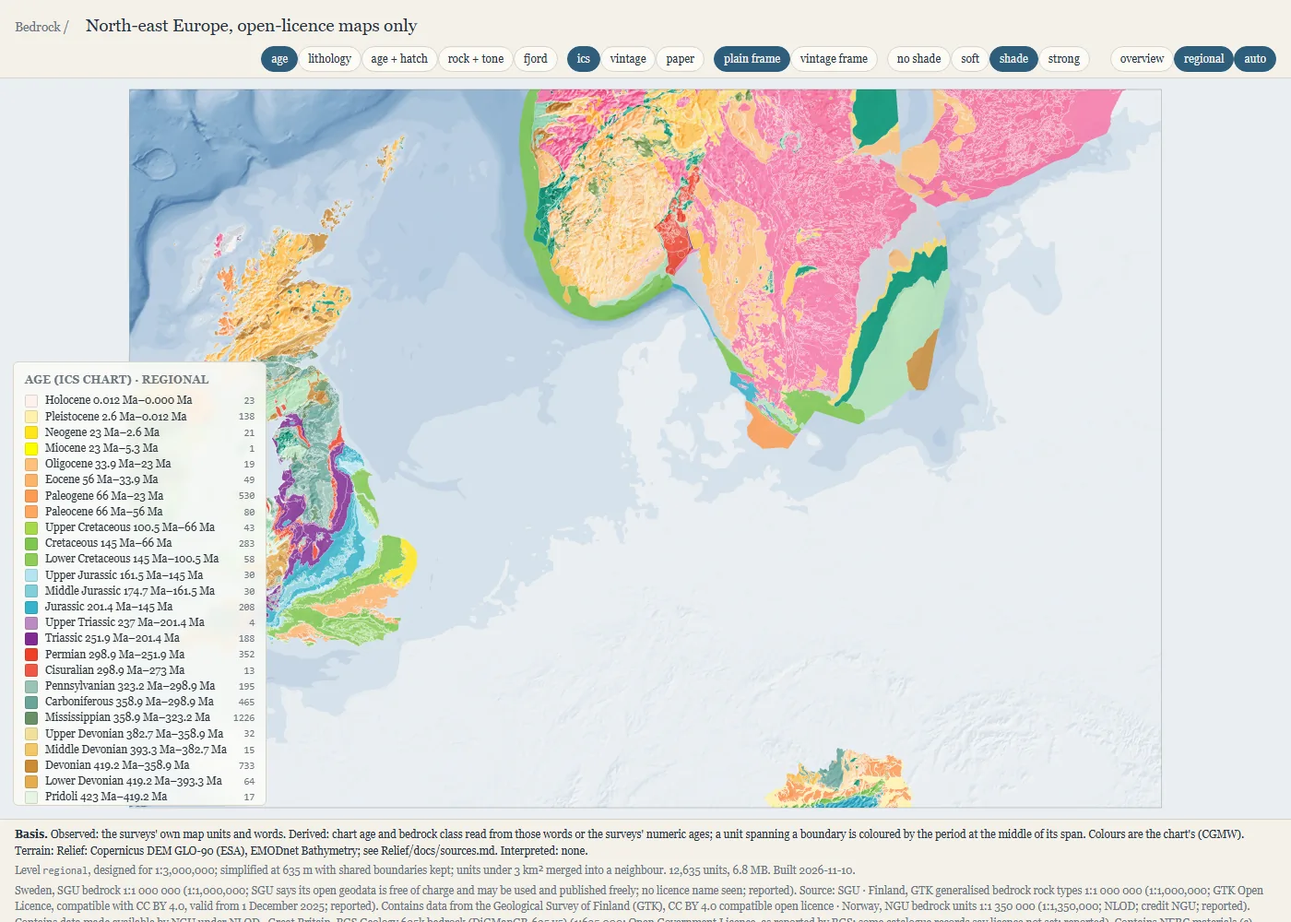
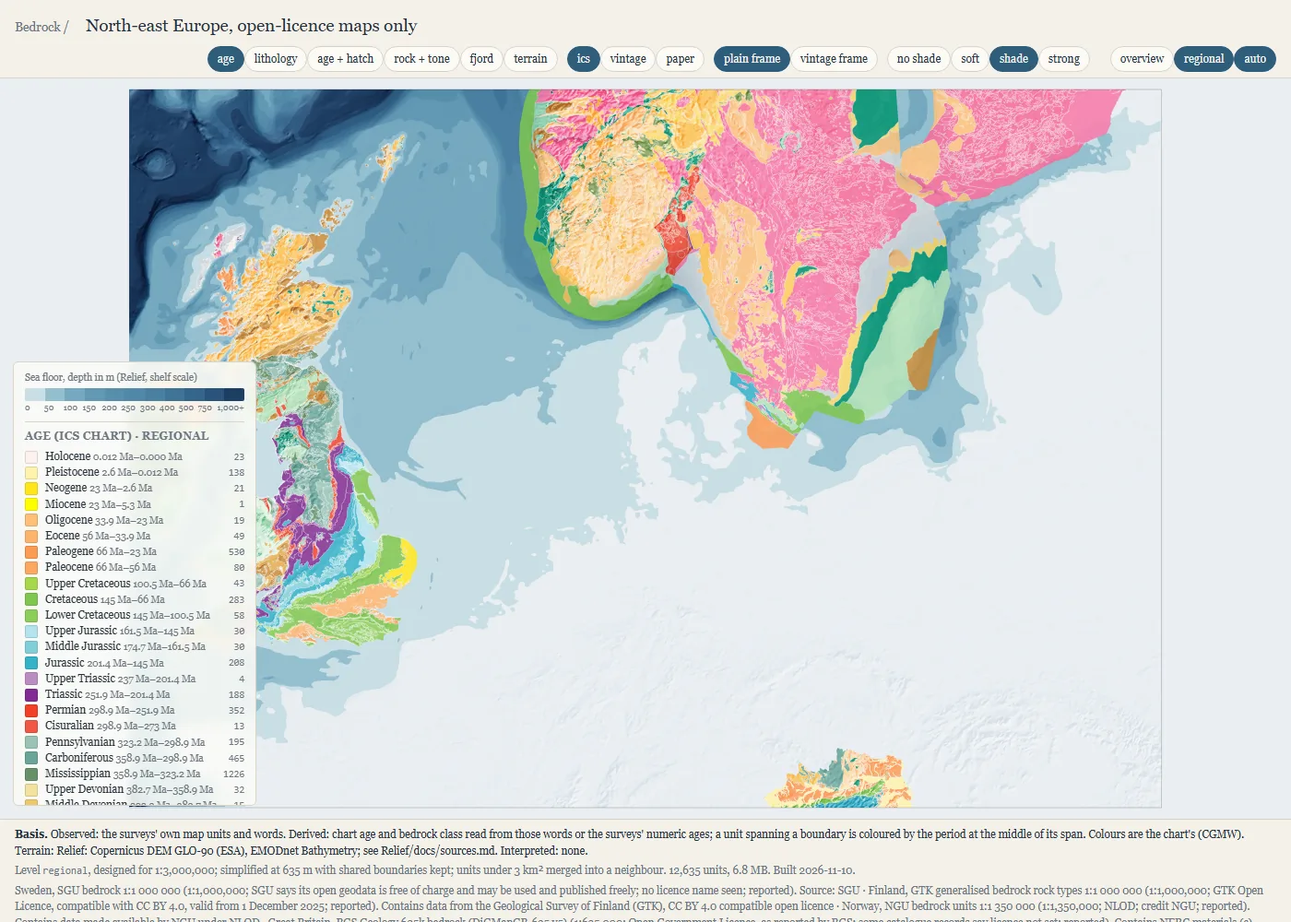
Viewers republished: Relief depth and height scales, terrain view, catchment shapes, ticked legends
The sea floor is on Relief's shelf depth ramp in both viewers; the geology viewer gains a terrain view on Relief frames
(height classes, bedrock hidden); the source-to-sink viewer opens on the catchment-shape view (fall lines under river
ribbons); every legend bar has ticks and a depth key. Screenshots add the terrain and quality views.

Claude-Session: https://claude.ai/code/session_01XvpqcX8HdSbCdMgD8MUffi

diff --git a/site/s2s.js b/site/s2s.js
@@ -1,6 +1,8 @@
 /* One source-to-sink region on Relief's hillshade. Coordinates are the region CRS in metres (d3.geoIdentity, y reflected).
    Data: ../data/derived/<region>/layers.json and the files it lists; Relief layers from the sibling repo (serve the parent).
-   Views (fill): cluster | sand | shield | carbonate | age | size | none.  Rivers: network | flow | off.
+   Views (fill): cluster | quality | yield | sand | shield | carbonate | age | size | none.
+   Water: all (slope threads under the river network and flow ribbons: the catchment-shape view) | network | flow | slope | off.
+   Sea floor and land wash on Relief's own depth and height scales (palette copied from Relief/preview/palette.js).
    Ink: strong (clear blue, firm outlines) | subtle (desaturated, thin, blends with the map).  Shade: 0 to 1.5.
    Fold: hide catchments under a size class so the smallest do not turn the coast to noise. */
 
@@ -11,7 +13,7 @@ const theme = params.get("theme");
 if (theme) document.documentElement.dataset.theme = theme;
 const dark = theme ? theme === "dark" : matchMedia("(prefers-color-scheme: dark)").matches;
 let mode = params.get("mode") || "cluster";
-let riverMode = params.get("rivers") || "network";
+let riverMode = params.get("rivers") || "all";
 let ink = params.get("ink") || "strong";
 let shade = params.has("shade") ? +params.get("shade") : 1.0;
 let fold = +(params.get("fold") || 0);        // 0 all, 3 hide under 1,000 km2, 4 hide under 10,000 km2
@@ -41,6 +43,48 @@ function toneHill(img, flat = 180, gain = 2.5) {
 }
 const hillT = hill.width ? toneHill(hill) : null;
 for (const f of systems) f.bbox = d3.geoPath().bounds(f);
+
+/* Relief's Detuned house style, copied from Relief/preview/palette.js: the shelf depth ramp (0 to 1,300 m, linear) and the
+   temperate height ramp at half saturation. Relief's stacked bands are coloured at each band's midpoint, so the sea and the
+   land read on Relief's own scales and the key below can show them. */
+const RELIEF = {
+  seaStops: [0, 20, 50, 100, 200, 500, 1000], seaMax: 1300,
+  sea: { light: ["#e8f0f2", "#cfe1e6", "#aacdd8", "#7eb0c5", "#5891ae", "#3a6d94", "#264b73", "#162b50"], dark: ["#3a8aa2", "#2f7690", "#25647d", "#1c526b", "#144157", "#0e3045", "#092336", "#06172a"] },
+  landStops: [0, 50, 150, 300, 600, 1000, 1500, 2000], landMax: 2000,
+  landRaw: { light: ["#d6e8b8", "#c6dea0", "#bad38f", "#cbcf92", "#d9c897", "#ccb8a0", "#d8d0c6", "#efece8"], dark: ["#46572f", "#4c5d33", "#536237", "#5d633b", "#665f42", "#655d50", "#85807a", "#aaa6a1"] },
+};
+function tune(h, sat, mix) { const c = d3.rgb(h), y = 0.2126 * c.r + 0.7152 * c.g + 0.0722 * c.b, t = mix > 0 ? 255 : 0, m = Math.abs(mix); const f = v => { const g = y + (v - y) * sat; return g + (t - g) * m; }; return d3.rgb(f(c.r), f(c.g), f(c.b)).formatHex(); }
+function reliefColour(kind, metres) {
+  const cols = kind === "sea" ? RELIEF.sea[dark ? "dark" : "light"] : RELIEF.landRaw[dark ? "dark" : "light"].map(h => tune(h, 0.5, dark ? -0.08 : 0.08));
+  const br = kind === "sea" ? RELIEF.seaStops : RELIEF.landStops, max = kind === "sea" ? RELIEF.seaMax : RELIEF.landMax;
+  const stops = br.map((b, i) => [b / max, cols[i]]); if (cols.length > br.length) stops.push([1, cols.at(-1)]);
+  let t = Math.min(1, Math.max(0, metres / max)), k = 0; while (k < stops.length - 2 && t > stops[k + 1][0]) k++;
+  const [t0, c0] = stops[k], [t1, c1] = stops[k + 1]; return d3.interpolateRgb(c0, c1)(Math.min(1, Math.max(0, (t - t0) / (t1 - t0 || 1))));
+}
+// stacked bands, drawn from the outermost in: each band is "everything deeper (or higher) than its level", coloured at its midpoint
+function bandLevels(kind) { return [...new Set(bands.features.filter(f => f.properties.kind === kind).map(f => Math.abs(f.properties.level)))].sort((a, b) => a - b); }
+function bandMid(levels, i) { return i + 1 < levels.length ? (levels[i] + levels[i + 1]) / 2 : levels[i] + (levels[i] - (levels[i - 1] ?? 0)) / 2; }
+function drawBands(kind, alpha) {
+  const levels = bandLevels(kind);
+  for (const [i, lv] of levels.entries()) {
+    const feats = bands.features.filter(f => f.properties.kind === kind && Math.abs(f.properties.level) === lv);
+    ctx.beginPath(); for (const f of feats) path(f); ctx.fillStyle = alphaFill(reliefColour(kind, bandMid(levels, i)), alpha); ctx.fill();
+  }
+  return levels;
+}
+/* Legend pieces: a stepped strip with the band breaks written under it, and a linear bar with ticks at named values, so a
+   log or a linear scale can be read at the values that matter rather than at its two ends. */
+const fmtN = v => v.toLocaleString("en-GB");
+function stepStrip(title, kind, levels) {
+  const cells = levels.map((lv, i) => `<span style="background:${reliefColour(kind, bandMid(levels, i))}" title="${fmtN(lv)}${i + 1 < levels.length ? "–" + fmtN(levels[i + 1]) : "+"} m"></span>`).join("");
+  const labs = levels.map((lv, i) => `<span>${fmtN(lv)}${i + 1 === levels.length ? "+" : ""}</span>`).join("");
+  return `<div class="k">${title}</div><div class="steps">${cells}</div><div class="labs">${labs}</div>`;
+}
+function tickBar(title, rampOf, ticks) {
+  const stops = d3.range(0, 1.001, 1 / 24).map(t => `<span style="flex:1;background:${rampOf(t)}"></span>`).join("");
+  const tk = ticks.map(([t, l]) => `<span style="left:${(100 * t).toFixed(1)}%">${l}</span>`).join("");
+  return `<div class="k">${title}</div><div class="bar">${stops}</div><div class="ticks">${tk}</div>`;
+}
 
 const CL = ["#c8553d", "#3d6e9e", "#7a9a3b", "#b8860b", "#6b4c9a", "#2e8b8b", "#a0522d", "#5f5f5f"];
 const SIZE = { "under 1,000 km2": "#dcd6c8", "1,000 to 10,000 km2": "#b9b1a0", "10,000 to 100,000 km2": "#8c8372", "over 100,000 km2": "#5a5247" };
@@ -79,12 +123,9 @@ function render() {
   path = d3.geoPath(proj, ctx);
   const [px0, py1] = proj([x0, y0]), [px1, py0] = proj([x1, y1]);
   ctx.fillStyle = getComputedStyle(document.body).getPropertyValue("--sea").trim(); ctx.fillRect(0, 0, W, H);
-  if (bands) {
-    const sea = bands.features.filter(f => f.properties.kind === "sea").sort((a, b) => a.properties.level - b.properties.level);
-    for (const f of sea) { ctx.beginPath(); path(f); ctx.fillStyle = dark ? "rgba(24,38,58,.35)" : "rgba(120,160,200,.18)"; ctx.fill(); }
-    const land = bands.features.find(f => f.properties.kind === "land" && f.properties.level === 0);
-    if (land) { ctx.beginPath(); path(land); ctx.fillStyle = dark ? "rgba(255,255,255,.05)" : "rgba(255,255,255,.35)"; ctx.fill(); }
-  }
+  // Relief's sea floor on its depth scale, the land as a quiet height wash: the catchments sit on terrain that reads as terrain
+  let seaLevels = null;
+  if (bands) { seaLevels = drawBands("sea", 1); drawBands("land", ink === "strong" ? 0.55 : 0.75); }
   // catchments
   const shown = systems.filter(f => visible(f.properties));
   const fa = ink === "strong" ? (dark ? 0.55 : 0.5) : (dark ? 0.35 : 0.3);
@@ -95,19 +136,18 @@ function render() {
   // rivers
   ctx.lineCap = "round"; ctx.lineJoin = "round";
   const sysOf = new Map(shown.map(f => [f.properties.system, f.properties]));
-  if (riverMode === "network") {
+  // "all" is the catchment-shape view: the fall lines of the terrain as fine threads underneath, the rivers as ribbons gathering
+  // over them and the network as a hairline, so the shape of each catchment reads from slope to mouth in one picture
+  if (riverMode === "slope" || riverMode === "all") slopeThreads(riverMode === "all");
+  if (riverMode === "network" || riverMode === "all") {
     for (const f of rivers) {
       if (fold && !sysOf.has(f.properties.system)) continue;
-      const q = f.properties.log_discharge ?? 0; ctx.beginPath(); path(f); ctx.lineWidth = Math.max(0.3, (ink === "strong" ? 0.25 : 0.15) + (ink === "strong" ? 0.9 : 0.5) * q); ctx.strokeStyle = inkRiver(); ctx.stroke();
-    }
-  } else if (riverMode === "flow") flowLines(sysOf);
-  else if (riverMode === "slope" && slopeFlow) {
-    // paths of steepest descent from Relief's terrain, coloured by their mean gradient: the fall lines the rivers follow
-    for (const f of slopeFlow.features) {
-      const g = f.properties.mean_gradient; ctx.beginPath(); path(f);
-      ctx.strokeStyle = alphaFill(gradRamp(g), ink === "strong" ? 0.8 : 0.45); ctx.lineWidth = ink === "strong" ? 0.7 : 0.45; ctx.stroke();
+      const q = f.properties.log_discharge ?? 0; ctx.beginPath(); path(f);
+      ctx.lineWidth = riverMode === "all" ? 0.3 : Math.max(0.3, (ink === "strong" ? 0.25 : 0.15) + (ink === "strong" ? 0.9 : 0.5) * q);
+      ctx.strokeStyle = riverMode === "all" ? alphaFill(inkRiver(), 0.35) : inkRiver(); ctx.stroke();
     }
   }
+  if (riverMode === "flow" || riverMode === "all") flowLines(sysOf);
   // outlets
   for (const f of outlets.features) {
     if (fold && !sysOf.has(f.properties.system)) continue;
@@ -116,7 +156,16 @@ function render() {
   }
   ctx.font = "italic 13px Georgia, serif"; ctx.fillStyle = dark ? "rgba(230,235,240,.8)" : "rgba(40,50,60,.8)";
   for (const s of doc.sinks || []) { const p = projLonLat(s.lon, s.lat); if (p) ctx.fillText(s.name, p[0], p[1]); }
-  legend(); strip();
+  legend(seaLevels); strip();
+}
+/* Slope flow: paths of steepest descent on Relief's terrain, coloured by their mean gradient, the fall lines the rivers follow.
+   Under the rivers (the combined view) they are drawn finer and quieter so the ribbons stay the subject. */
+function slopeThreads(under) {
+  if (!slopeFlow) return;
+  for (const f of slopeFlow.features) {
+    const g = f.properties.mean_gradient; ctx.beginPath(); path(f);
+    ctx.strokeStyle = alphaFill(gradRamp(g), under ? (ink === "strong" ? 0.55 : 0.3) : (ink === "strong" ? 0.8 : 0.45)); ctx.lineWidth = under ? 0.45 : (ink === "strong" ? 0.7 : 0.45); ctx.stroke();
+  }
 }
 
 /* Flow-line view: each reach drawn as a tapered ribbon whose width grows with discharge, in the colour of its catchment's
@@ -156,22 +205,32 @@ function laea(lon0, lat0, fe, fn) { const R = 6371007.181, d = Math.PI / 180, l0
 function lcc(lat1, lat2, lat0, lon0) { const R = 6371007.181, d = Math.PI / 180, p1 = lat1 * d, p2 = lat2 * d, p0 = lat0 * d, l0 = lon0 * d; const n = Math.log(Math.cos(p1) / Math.cos(p2)) / Math.log(Math.tan(Math.PI / 4 + p2 / 2) / Math.tan(Math.PI / 4 + p1 / 2)); const F = Math.cos(p1) * Math.pow(Math.tan(Math.PI / 4 + p1 / 2), n) / n, r0 = R * F / Math.pow(Math.tan(Math.PI / 4 + p0 / 2), n); return (lon, lat) => { const r = R * F / Math.pow(Math.tan(Math.PI / 4 + lat * d / 2), n), th = n * (lon * d - l0); return [r * Math.sin(th), r0 - r * Math.cos(th)]; }; }
 function utm(lon0) { const d = Math.PI / 180, a = 6378137, f = 1 / 298.257222101, k0 = 0.9996, e2 = f * (2 - f), ep2 = e2 / (1 - e2); return (lon, lat) => { const p = lat * d, l = (lon - lon0) * d, N = a / Math.sqrt(1 - e2 * Math.sin(p) ** 2), T = Math.tan(p) ** 2, C = ep2 * Math.cos(p) ** 2, A = Math.cos(p) * l; const M = a * ((1 - e2 / 4 - 3 * e2 * e2 / 64) * p - (3 * e2 / 8 + 3 * e2 * e2 / 32) * Math.sin(2 * p) + (15 * e2 * e2 / 256) * Math.sin(4 * p)); return [500000 + k0 * N * (A + (1 - T + C) * A ** 3 / 6), k0 * (M + N * Math.tan(p) * (A * A / 2 + (5 - T + 9 * C) * A ** 4 / 24))]; }; }
 
-function legend() {
+function legend(seaLevels) {
   const el = document.getElementById("legend");
   let rows = "";
   if (mode === "cluster") rows = Object.entries(doc.clusters).map(([i, c]) => `<div class="row"><span class="sw" style="background:${clusterColour(+i)}"></span><span>${c.name}</span><span class="n">${c.n_systems}</span></div>`).join("") + `<div class="row"><span class="sw" style="background:${dark ? "#555c66" : "#c9ccd1"}"></span><span>under half of the catchment mapped</span></div>`;
   else if (mode === "size") rows = Object.entries(SIZE).map(([k, c]) => `<div class="row"><span class="sw" style="background:${c}"></span><span>${k}</span><span class="n">${(doc.size_classes || {})[k] || 0}</span></div>`).join("");
   else if (mode !== "none") {
-    const label = { sand: "Sand supply proxy, Mt a year (BQART flux times the sand share of the sources)", quality: "Sand quality proxy, 0 to 1 (docs/SAND_QUALITY.md)", yield: "Sediment yield, t per km² a year (BQART)", shield: "Shield share: older Proterozoic and Archean bedrock", carbonate: "Carbonate share", age: "Area-weighted mean bedrock age (log scale)" }[mode];
-    const rampOf = t => mode === "age" ? ageRamp(1 + 2.5 * t) : mode === "quality" ? qualRamp(0.1 + 0.5 * t) : mode === "yield" ? yieldRamp(0.5 + 2.5 * t) : mode === "sand" ? yieldRamp(0.5 + 2.5 * t) : ramp(t);
-    const stops = d3.range(0, 1.01, 0.1).map(t => `<span style="flex:1;background:${rampOf(t)}"></span>`).join("");
-    const ends = mode === "age" ? ["10 Ma", "3 Ga"] : mode === "quality" ? ["0.1", "0.6"] : mode === "yield" ? ["3", "1,000 t/km²/yr"] : mode === "sand" ? ["0.03", "10 Mt/yr"] : ["0", "1"];
-    rows = `<div class="k">${label}</div><div class="bar">${stops}</div><div class="ends"><span>${ends[0]}</span><span>${ends[1]}</span></div>`;
+    // every index bar carries ticks at the values that matter; log scales are labelled in their own units, not in exponents
+    const lg = (v, lo, span) => (Math.log10(v) - lo) / span;
+    const spec = {
+      quality: ["Sand quality proxy, 0 to 1 (docs/SAND_QUALITY.md)", t => qualRamp(0.1 + 0.5 * t), [0.1, 0.2, 0.3, 0.4, 0.5, 0.6].map(v => [(v - 0.1) / 0.5, v.toFixed(1)])],
+      yield: ["Sediment yield, t per km² a year (BQART), log scale", t => yieldRamp(0.5 + 2.5 * t), [3, 10, 30, 100, 300, 1000].map(v => [lg(v, 0.5, 2.5), fmtN(v)])],
+      sand: ["Sand supply proxy, Mt a year (BQART flux times the sand share of the sources), log scale", t => yieldRamp(0.5 + 2.5 * t), [0.03, 0.1, 0.3, 1, 3, 10].map(v => [lg(v, -1.5, 2.5), String(v)])],
+      age: ["Area-weighted mean bedrock age, log scale", t => ageRamp(1 + 2.5 * t), [[0, "10 Ma"], [lg(100, 1, 2.5), "100 Ma"], [lg(1000, 1, 2.5), "1 Ga"], [lg(3000, 1, 2.5), "3 Ga"]]],
+      shield: ["Shield share: older Proterozoic and Archean bedrock, per cent of mapped area", ramp, [0, 0.25, 0.5, 0.75, 1].map(v => [v, Math.round(100 * v) + " %"])],
+      carbonate: ["Carbonate share, per cent of mapped area", ramp, [0, 0.25, 0.5, 0.75, 1].map(v => [v, Math.round(100 * v) + " %"])],
+    }[mode];
+    if (spec) rows = tickBar(...spec);
   }
   const foldNote = fold ? `<div class="row"><span class="k">catchments under ${fold === 3 ? "1,000" : "10,000"} km² hidden</span></div>` : "";
-  el.innerHTML = `<h3>${mode === "cluster" ? "Catchment groups by bedrock and age" : mode === "size" ? "Catchment size, log classes" : mode === "none" ? "Catchments outlined" : "Catchment index"}</h3>${rows}${foldNote}` +
-    (riverMode === "flow" ? `<div class="row"><span class="k">flow lines: width and glow grow with mean discharge${mode === "cluster" && ink === "strong" ? ", colour is the catchment group" : ""}</span></div>` : "") +
-    (riverMode === "slope" ? `<div class="k" style="margin-top:6px">Slope flow: steepest descent on Relief terrain, colour is the mean gradient</div><div class="bar">${d3.range(0, 1.01, 0.1).map(t => `<span style="flex:1;background:${gradRamp(0.08 * t)}"></span>`).join("")}</div><div class="ends"><span>flat</span><span>8 %</span></div>` : "");
+  const water = [];
+  if (riverMode === "all") water.push(`<div class="k" style="margin-top:6px">Catchment shapes: the terrain's fall lines as fine threads, the river network as a hairline, and the rivers as ribbons whose width and glow grow with mean discharge${mode === "cluster" && ink === "strong" ? " in the colour of the catchment group" : ""}</div>`);
+  if (riverMode === "flow") water.push(`<div class="k" style="margin-top:6px">Flow lines: width and glow grow with mean discharge${mode === "cluster" && ink === "strong" ? ", colour is the catchment group" : ""}</div>`);
+  if (riverMode === "network") water.push(`<div class="k" style="margin-top:6px">Rivers: line weight grows with mean discharge</div>`);
+  if (riverMode === "slope" || riverMode === "all") water.push(tickBar("Slope flow: steepest descent on Relief terrain, colour is the mean gradient", t => gradRamp(0.08 * t), [0, 2, 4, 6, 8].map(v => [v / 8, v + " %"])));
+  const depth = seaLevels && shade >= 0 ? `<div class="sep"></div>${stepStrip("Sea floor, depth in m (Relief, shelf scale)", "sea", seaLevels)}` : "";
+  el.innerHTML = `<h3>${mode === "cluster" ? "Catchment groups by bedrock and age" : mode === "size" ? "Catchment size, log classes" : mode === "none" ? "Catchments outlined" : "Catchment index"}</h3>${rows}${foldNote}${water.join("")}${depth}`;
 }
 function strip() {
   const c = doc.counts;
@@ -204,7 +263,7 @@ function inRing(ring, [x, y]) { let inside = false; for (let i = 0, j = ring.len
 function controls() {
   const el = document.getElementById("modes"), gap = `<span style="width:10px;display:inline-block"></span>`;
   el.innerHTML = ["cluster", "quality", "yield", "sand", "shield", "carbonate", "age", "size", "none"].map(k => `<button class="seg" data-mode="${k}" aria-pressed="${k === mode}">${k}</button>`).join("") +
-    gap + [["network", "rivers"], ["flow", "flow lines"], ["slope", "slope flow"], ["off", "no rivers"]].map(([k, l]) => `<button class="seg" data-rivers="${k}" aria-pressed="${k === riverMode}">${l}</button>`).join("") +
+    gap + [["all", "catchment shapes"], ["network", "rivers"], ["flow", "flow lines"], ["slope", "slope flow"], ["off", "no rivers"]].map(([k, l]) => `<button class="seg" data-rivers="${k}" aria-pressed="${k === riverMode}">${l}</button>`).join("") +
     gap + ["strong", "subtle"].map(k => `<button class="seg" data-ink="${k}" aria-pressed="${k === ink}">${k}</button>`).join("") +
     gap + [["0", "no shade"], ["0.6", "soft"], ["1", "shade"], ["1.4", "strong shade"]].map(([k, l]) => `<button class="seg" data-shade="${k}" aria-pressed="${+k === shade}">${l}</button>`).join("") +
     gap + [["0", "all sizes"], ["3", "≥ 1,000 km²"], ["4", "≥ 10,000 km²"]].map(([k, l]) => `<button class="seg" data-fold="${k}" aria-pressed="${+k === fold}">${l}</button>`).join("");

diff --git a/site/geology.js b/site/geology.js
@@ -3,7 +3,9 @@
    A region exported in a Relief frame CRS (doc.relief) is drawn with an identity transform over Relief's hillshade
    (served from the sibling repo, so serve the repos' parent folder); a lon/lat region uses a conic projection.
    Views: age | lithology | age+hatch | tone (lithology hue, age as lightness on a linear ramp) | fjord (age alone on
-   SubScout's fjord ramp). Palettes: ics | vintage | paper. Frames: plain | vintage. Shade: 0 (off) to 1.5. */
+   SubScout's fjord ramp) | terrain (Relief frames only: Relief's height and depth classes, bedrock hidden).
+   Palettes: ics | vintage | paper. Frames: plain | vintage. Shade: 0 (off) to 1.5.
+   The sea floor is always on Relief's shelf depth scale (palette copied from Relief/preview/palette.js); the key shows it. */
 
 const params = new URLSearchParams(location.search);
 const region = params.get("r") || "norway";
@@ -118,6 +120,49 @@ function fillOf(p) {
 }
 const alphaFill = (hex, a) => { const c = d3.color(hex); if (!c) return hex; c.opacity = a; return c.formatRgb(); };
 
+/* Relief's Detuned house style, copied from Relief/preview/palette.js: the shelf depth ramp (0 to 1,300 m, linear) and the
+   temperate height ramp at half saturation. Relief's stacked bands are coloured at each band's midpoint, so the sea reads on
+   Relief's own depth scale under every view, the terrain view shows the land on its height scale, and the key shows both. */
+const RELIEF = {
+  seaStops: [0, 20, 50, 100, 200, 500, 1000], seaMax: 1300,
+  sea: { light: ["#e8f0f2", "#cfe1e6", "#aacdd8", "#7eb0c5", "#5891ae", "#3a6d94", "#264b73", "#162b50"], dark: ["#3a8aa2", "#2f7690", "#25647d", "#1c526b", "#144157", "#0e3045", "#092336", "#06172a"] },
+  landStops: [0, 50, 150, 300, 600, 1000, 1500, 2000], landMax: 2000,
+  landRaw: { light: ["#d6e8b8", "#c6dea0", "#bad38f", "#cbcf92", "#d9c897", "#ccb8a0", "#d8d0c6", "#efece8"], dark: ["#46572f", "#4c5d33", "#536237", "#5d633b", "#665f42", "#655d50", "#85807a", "#aaa6a1"] },
+};
+function tune(h, sat, mix) { const c = d3.rgb(h), y = 0.2126 * c.r + 0.7152 * c.g + 0.0722 * c.b, t = mix > 0 ? 255 : 0, m = Math.abs(mix); const f = v => { const g = y + (v - y) * sat; return g + (t - g) * m; }; return d3.rgb(f(c.r), f(c.g), f(c.b)).formatHex(); }
+function reliefColour(kind, metres) {
+  const cols = kind === "sea" ? RELIEF.sea[dark ? "dark" : "light"] : RELIEF.landRaw[dark ? "dark" : "light"].map(h => tune(h, 0.5, dark ? -0.08 : 0.08));
+  const br = kind === "sea" ? RELIEF.seaStops : RELIEF.landStops, max = kind === "sea" ? RELIEF.seaMax : RELIEF.landMax;
+  const stops = br.map((b, i) => [b / max, cols[i]]); if (cols.length > br.length) stops.push([1, cols.at(-1)]);
+  let t = Math.min(1, Math.max(0, metres / max)), k = 0; while (k < stops.length - 2 && t > stops[k + 1][0]) k++;
+  const [t0, c0] = stops[k], [t1, c1] = stops[k + 1]; return d3.interpolateRgb(c0, c1)(Math.min(1, Math.max(0, (t - t0) / (t1 - t0 || 1))));
+}
+// stacked bands, drawn from the outermost in: each band is "everything deeper (or higher) than its level", coloured at its midpoint
+function bandLevels(bands, kind) { return [...new Set(bands.features.filter(f => f.properties.kind === kind).map(f => Math.abs(f.properties.level)))].sort((a, b) => a - b); }
+function bandMid(levels, i) { return i + 1 < levels.length ? (levels[i] + levels[i + 1]) / 2 : levels[i] + (levels[i] - (levels[i - 1] ?? 0)) / 2; }
+function drawBands(bands, kind, alpha) {
+  const levels = bandLevels(bands, kind);
+  for (const [i, lv] of levels.entries()) {
+    const feats = bands.features.filter(f => f.properties.kind === kind && Math.abs(f.properties.level) === lv);
+    ctx.beginPath(); for (const f of feats) path(f); ctx.fillStyle = alphaFill(reliefColour(kind, bandMid(levels, i)), alpha); ctx.fill();
+  }
+  return levels;
+}
+/* Legend pieces: a stepped strip with the band breaks written under it, and a linear bar with ticks at named values, so a
+   log or a linear scale can be read at the values that matter rather than at its two ends. */
+const fmtN = v => v.toLocaleString("en-GB");
+function stepStrip(title, kind, levels) {
+  const cells = levels.map((lv, i) => `<span style="background:${reliefColour(kind, bandMid(levels, i))}" title="${fmtN(lv)}${i + 1 < levels.length ? "–" + fmtN(levels[i + 1]) : "+"} m"></span>`).join("");
+  const labs = levels.map((lv, i) => `<span>${fmtN(lv)}${i + 1 === levels.length ? "+" : ""}</span>`).join("");
+  return `<div class="k">${title}</div><div class="steps">${cells}</div><div class="labs">${labs}</div>`;
+}
+function tickBar(title, rampOf, ticks) {
+  const stops = d3.range(0, 1.001, 1 / 24).map(t => `<span style="flex:1;background:${rampOf(t)}"></span>`).join("");
+  const tk = ticks.map(([t, l]) => `<span style="left:${(100 * t).toFixed(1)}%">${l}</span>`).join("");
+  return `<div class="k">${title}</div><div class="bar">${stops}</div><div class="ticks">${tk}</div>`;
+}
+let reliefLevels = { sea: null, land: null };
+
 /* hatches */
 const hatchCache = new Map();
 function hatch(name) {
@@ -157,16 +202,17 @@ async function render() {
   ctx.fillRect(0, 0, width, height);
   if (vintage) paperGrain();
   ctx.save(); ctx.beginPath(); path(bboxFeature); ctx.clip();
-  // Relief sea bands and land wash under everything
+  // Relief's sea floor on its depth scale under everything (quieter on paper); in the terrain view the land on its height scale too
+  reliefLevels = { sea: null, land: null };
   if (bands) {
-    const sea = bands.features.filter(f => f.properties.kind === "sea").sort((a, b) => a.properties.level - b.properties.level);
-    for (const f of sea) { ctx.beginPath(); path(f); ctx.fillStyle = vintage ? "rgba(120,140,160,.10)" : (dark ? "rgba(24,38,58,.35)" : "rgba(120,160,200,.16)"); ctx.fill(); }
+    reliefLevels.sea = drawBands(bands, "sea", vintage ? 0.5 : 1);
+    if (mode === "terrain") reliefLevels.land = drawBands(bands, "land", vintage ? 0.85 : 1);
   }
   if (!projected) { ctx.beginPath(); path(d3.geoGraticule().step([5, 5])()); ctx.strokeStyle = vintage ? (dark ? "rgba(255,255,255,.12)" : "rgba(80,60,30,.22)") : (dark ? "rgba(255,255,255,.06)" : "rgba(0,0,0,.06)"); ctx.lineWidth = vintage ? 0.6 : 1; ctx.stroke(); }
   if (!vintage && !projected) { ctx.save(); ctx.shadowColor = dark ? "rgba(0,0,0,.6)" : "rgba(30,40,60,.28)"; ctx.shadowBlur = 18; ctx.shadowOffsetY = 4; ctx.fillStyle = dark ? "#2a3444" : "#ffffff";
     for (const L of layers) { ctx.beginPath(); for (const f of L.features) if (!f.properties.offshore) path(f); ctx.fill(); } ctx.restore(); }
   const alpha = vintage ? 0.92 : (dark ? 0.72 : 0.85);
-  for (const L of layers) {
+  for (const L of (mode === "terrain" ? [] : layers)) {
     for (const f of L.features) {
       const p = f.properties; ctx.beginPath(); path(f);
       ctx.fillStyle = alphaFill(fillOf(p), p.offshore ? alpha * 0.42 : alpha); ctx.fill();
@@ -209,7 +255,7 @@ function neatline(pad) {
   }
   ctx.textAlign = "left"; ctx.fillStyle = ink;
   ctx.font = "500 22px Georgia, serif"; ctx.fillText(doc.name.toUpperCase(), pad + 10, pad + 28);
-  const sub = { age: "Bedrock by age, after the International Chronostratigraphic Chart", lithology: "Bedrock by class", "age+hatch": "Age in colour, rock in hatch", tone: "Rock in colour, age in tone (older is darker)", fjord: "Age alone on the fjord ramp (older is darker)" }[mode];
+  const sub = { age: "Bedrock by age, after the International Chronostratigraphic Chart", lithology: "Bedrock by class", "age+hatch": "Age in colour, rock in hatch", tone: "Rock in colour, age in tone (older is darker)", fjord: "Age alone on the fjord ramp (older is darker)", terrain: "Relief terrain: height and depth classes, no bedrock" }[mode];
   ctx.font = "italic 12px Georgia, serif"; ctx.fillText(`${sub} · ${palette} palette`, pad + 10, pad + 46);
 }
 
@@ -218,6 +264,12 @@ function legend(chosen) {
   const counts = new Map();
   for (const L of layers) for (const f of L.features) { const k = (mode === "lithology" || mode === "tone") ? f.properties.litho_class : f.properties.ics_display; counts.set(k, (counts.get(k) || 0) + 1); }
   let html;
+  const depthKey = reliefLevels.sea ? `<div class="sep"></div>${stepStrip("Sea floor, depth in m (Relief, shelf scale)", "sea", reliefLevels.sea)}` : "";
+  if (mode === "terrain") {
+    html = `<h3>Terrain (Relief) · ${chosen}</h3>` + (reliefLevels.land ? stepStrip("Land, height in m", "land", reliefLevels.land) : "") + depthKey +
+      `<div class="k" style="margin-top:6px">Relief's Detuned style: stepped height classes, the sea floor on the shelf depth scale, hillshade as set above. Bedrock is hidden.</div>`;
+    el.innerHTML = html; el.classList.toggle("vintage", frame === "vintage"); el.classList.toggle("dark", dark); return;
+  }
   if (mode === "tone") {
     // bivariate grid: rows are classes present, columns are age steps on the same log scale as the fill
     const classes = [...counts].filter(([k]) => k && k !== "ice_water").sort((a, b) => b[1] - a[1]).map(([k]) => k);
@@ -226,8 +278,8 @@ function legend(chosen) {
     html = `<h3>Rock in colour, age in tone · ${chosen}</h3><div class="grid"><div class="grow"><span class="glab"></span>${steps.map(s => `<span class="ghead">${s >= 1000 ? (s / 1000) + " Ga" : s + " Ma"}</span>`).join("")}</div>` +
       classes.map(k => `<div class="grow"><span class="glab">${pal.labels[k]}</span>${steps.map(s => cell(k, s)).join("")}</div>`).join("") + `</div><div class="row"><span class="k">lightness runs with log age; the colour is the class</span></div>`;
   } else if (mode === "fjord") {
-    const stops = d3.range(0, 1.01, 0.1).map(t => `<span style="flex:1;background:${fjord(t)}"></span>`).join("");
-    html = `<h3>Age on the fjord ramp · ${chosen}</h3><div class="bar">${stops}</div><div class="ends"><span>3 Ma</span><span>300 Ma</span><span>3 Ga</span></div>`;
+    const tAt = ma => ageT({ age_old_ma: ma, age_young_ma: ma });
+    html = `<h3>Age on the fjord ramp · ${chosen}</h3>` + tickBar("Age of the unit, log scale (older is darker)", fjord, [[3, "3 Ma"], [10, "10"], [30, "30"], [100, "100"], [300, "300 Ma"], [1000, "1 Ga"], [3000, "3 Ga"]].map(([ma, l]) => [tAt(ma), l]));
   } else {
     let rows;
     if (mode === "lithology") rows = [...counts].filter(([k]) => k).sort((a, b) => b[1] - a[1]).map(([k, n]) => [lithoColour({ litho_class: k }), pal.labels[k] || k, n]);
@@ -244,7 +296,8 @@ function legend(chosen) {
     const title = mode === "lithology" ? "Bedrock class" : `Age (${palette === "ics" ? "ICS chart" : palette + " palette"})`;
     html = `<h3>${frame === "vintage" ? "Explication des couleurs" : title} · ${chosen}</h3>` + rows.map(([hex, label, n]) => `<div class="row"><span class="sw" style="background:${hex}"></span><span>${label}</span><span class="n">${n}</span></div>`).join("") + extra;
   }
-  el.innerHTML = html;
+  // the depth key sits first, above the unit list, which can be long enough to scroll
+  el.innerHTML = (reliefLevels.sea ? stepStrip("Sea floor, depth in m (Relief, shelf scale)", "sea", reliefLevels.sea) + `<div class="sep"></div>` : "") + html;
   el.querySelectorAll("canvas[data-hatch]").forEach(c => { const g = c.getContext("2d"); g.fillStyle = dark ? "#2a3444" : "#fff"; g.fillRect(0, 0, 14, 14); const h = hatch(c.dataset.hatch); if (h) { g.fillStyle = h; g.fillRect(0, 0, 14, 14); } });
   el.classList.toggle("vintage", frame === "vintage"); el.classList.toggle("dark", dark);
 }
@@ -266,7 +319,7 @@ function markLevel(chosen) {
 function controls() {
   const el = document.getElementById("modes");
   const gap = `<span style="width:10px;display:inline-block"></span>`;
-  el.innerHTML = [["age", "age"], ["lithology", "lithology"], ["age+hatch", "age + hatch"], ["tone", "rock + tone"], ["fjord", "fjord"]].map(([k, l]) => `<button class="seg" data-mode="${k}" aria-pressed="${k === mode}">${l}</button>`).join("") +
+  el.innerHTML = [["age", "age"], ["lithology", "lithology"], ["age+hatch", "age + hatch"], ["tone", "rock + tone"], ["fjord", "fjord"], ...(projected ? [["terrain", "terrain"]] : [])].map(([k, l]) => `<button class="seg" data-mode="${k}" aria-pressed="${k === mode}">${l}</button>`).join("") +
     gap + ["ics", "vintage", "paper"].map(k => `<button class="seg" data-palette="${k}" aria-pressed="${k === palette}">${k}</button>`).join("") +
     gap + ["plain", "vintage"].map(k => `<button class="seg" data-frame="${k}" aria-pressed="${k === frame}">${k} frame</button>`).join("") +
     (projected ? gap + [["0", "no shade"], ["0.6", "soft"], ["0.9", "shade"], ["1.4", "strong"]].map(([k, l]) => `<button class="seg" data-shade="${k}" aria-pressed="${+k === shade}">${l}</button>`).join("") : "");

diff --git a/site/style.css b/site/style.css
@@ -78,11 +78,32 @@ canvas#map { display: block; width: 100%; height: 100%; }
 .legend .glab { width: 130px; font-size: .68rem; line-height: 1.1; color: var(--muted); }
 .legend .ghead { width: 22px; font-size: .62rem; text-align: center; color: var(--muted); }
 .legend .cell { width: 22px; height: 14px; display: inline-block; border-radius: 1px; }
-.legend .bar { display: flex; height: 10px; border-radius: 2px; overflow: hidden; margin: 4px 0 2px; }
+.legend .bar { display: flex; flex-wrap: nowrap; gap: 0; padding: 0; border: 0; height: 14px; border-radius: 2px; overflow: hidden; margin: 4px 0 0; }
 .legend .ends { display: flex; justify-content: space-between; color: var(--muted); font-size: .7rem; }
+.legend .ticks { position: relative; height: 18px; margin: 0 0 4px; color: var(--muted); font-size: .66rem; }
+.legend .ticks span { position: absolute; top: 2px; transform: translateX(-50%); white-space: nowrap; padding-top: 4px; }
+.legend .ticks span::before { content: ""; position: absolute; left: 50%; top: -3px; width: 1px; height: 5px; background: currentColor; opacity: .7; }
+.legend .ticks span:first-child { transform: none; } .legend .ticks span:first-child::before { left: 0; }
+.legend .ticks span:last-child { transform: translateX(-100%); } .legend .ticks span:last-child::before { left: auto; right: 0; }
+.legend .steps { display: flex; height: 14px; border-radius: 2px; overflow: hidden; margin: 4px 0 0; }
+.legend .steps span { flex: 1; }
+.legend .labs { display: flex; color: var(--muted); font-size: .62rem; margin-bottom: 4px; }
+.legend .labs span { flex: 1; white-space: nowrap; }
+.legend .sep { border-top: 1px solid var(--rule); margin: 8px 0 6px; }
 
 /* source-to-sink additions */
-.legend .bar { display: flex; height: 10px; border-radius: 2px; overflow: hidden; margin: 4px 0 2px; }
+.legend .bar { display: flex; flex-wrap: nowrap; gap: 0; padding: 0; border: 0; height: 14px; border-radius: 2px; overflow: hidden; margin: 4px 0 0; }
 .legend .ends { display: flex; justify-content: space-between; color: var(--muted); font-size: .7rem; }
+.legend .ticks { position: relative; height: 18px; margin: 0 0 4px; color: var(--muted); font-size: .66rem; }
+.legend .ticks span { position: absolute; top: 2px; transform: translateX(-50%); white-space: nowrap; padding-top: 4px; }
+.legend .ticks span::before { content: ""; position: absolute; left: 50%; top: -3px; width: 1px; height: 5px; background: currentColor; opacity: .7; }
+.legend .ticks span:first-child { transform: none; } .legend .ticks span:first-child::before { left: 0; }
+.legend .ticks span:last-child { transform: translateX(-100%); } .legend .ticks span:last-child::before { left: auto; right: 0; }
+.legend .steps { display: flex; height: 14px; border-radius: 2px; overflow: hidden; margin: 4px 0 0; }
+.legend .steps span { flex: 1; }
+.legend .labs { display: flex; color: var(--muted); font-size: .62rem; margin-bottom: 4px; }
+.legend .labs span { flex: 1; white-space: nowrap; }
+.legend .k { color: var(--muted); font-size: .7rem; line-height: 1.3; }
+.legend .sep { border-top: 1px solid var(--rule); margin: 8px 0 6px; }
 .tip .stack { display: flex; height: 9px; border-radius: 2px; overflow: hidden; margin: 2px 0 6px; background: var(--rule); }
 .tip .stack span { display: block; }

diff --git a/scripts/shots.py b/scripts/shots.py
@@ -44,7 +44,10 @@ def main() -> None:
     socketserver.TCPServer.allow_reuse_address = True
     srv = socketserver.TCPServer(("127.0.0.1", a.port), Handler)
     threading.Thread(target=srv.serve_forever, daemon=True).start()
-    pages = [(f"geology_{r}", f"geology.html?r={r}&shade=0.9") for r in man["geology"]] + [(f"s2s_{r}", f"s2s.html?r={r}&rivers=flow&fold=3") for r in man["s2s"]]
+    pages = [(f"geology_{r}", f"geology.html?r={r}&shade=0.9") for r in man["geology"]] + [(f"s2s_{r}", f"s2s.html?r={r}&rivers=all&fold=3") for r in man["s2s"]]
+    # the terrain view on the Relief frames, and one index view with its ticked bar
+    pages += [(f"geology_{r}_terrain", f"geology.html?r={r}&mode=terrain&shade=1.4") for r in man["geology"] if r in ("north_sea", "ne_europe_open")]
+    pages += [(f"s2s_{r}_quality", f"s2s.html?r={r}&mode=quality&rivers=all&fold=3") for r in man["s2s"] if r == "north_sea"]
     try:
         for theme in ("light", "dark"):
             for name, q in pages:
